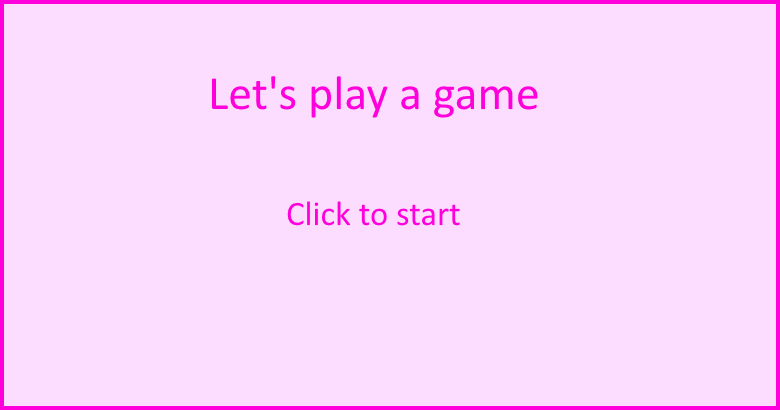
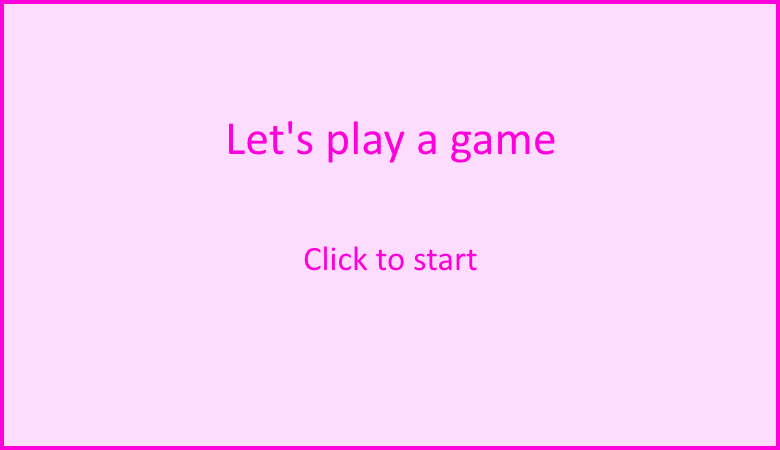
Button that toggles LED on level 1

Changed region(s): [[0.2462, 0.1756, 0.7077, 0.3805], [0.3692, 0.4976, 0.6154, 0.6146]]

diff --git a/script.js b/script.js
@@ -22,10 +22,22 @@ var levels = [{}, {}];
 levels[0].field = [
     ['6-', 'E-', 'E-', 'E-', 'E-', 'C-'],
     ['7-', 'F-', 'F-', 'F-', 'F-', 'D-'],
-    ['7-', 'F-', 'FA', 'F-', 'F-', 'D-'],
+    ['7-', 'F-', 'FA', 'FB', 'F-', 'D-'],
     ['7-', 'F-', 'F-', 'F-', 'F-', 'D-'],
     ['7-', 'F-', 'F-', 'F-', 'F-', 'D-'],
     ['3-', 'B-', 'B-', 'B-', 'B-', '9-']];
+levels[0].items = [[], [], [], [], [], []];
+levels[0].items[2][3] = {
+        key: 'buttons',
+        index: '0'
+    };
+levels[0].leds = [{on: false}];
+levels[0].buttons = [{
+        controlls: {
+            key: 'leds',
+            index: 0
+        }
+    }];
 levels[1].field = [
     ['4-', '0-', '6-', 'AD', 'C-', '0-'],
     ['3B', 'AC', 'F-', 'AE', 'F-', 'C-'],
@@ -33,6 +45,7 @@ levels[1].field = [
     ['0-', '0-', '0-', '0-', '0-', '5-'],
     ['0-', '0-', '0-', '0-', '0-', '5-'],
     ['0-', '0-', '0-', '0-', '0-', '1B']];
+levels[1].leds = [{on: false}, {on: false}];
 var currentLevel = -1;
 
 var gameState = 'MENU';
@@ -68,6 +81,21 @@ function drawGameMenu() {
 }
 
 function drawPlayingField() {
+    function drawLEDs(ledCount, context, x, y) {
+        for (var i = 0; i < ledCount; i++) {
+            context.beginPath();
+            context.arc(x - i * 24, y, 10, 2 * Math.PI, false);
+            if (levels[currentLevel].leds[ledCount - 1 - i].on) {
+                context.fillStyle = 'yellow';
+            } else {
+                context.fillStyle = 'white';
+            }
+            context.fill();
+            context.strokeStyle = '#cfcf32';
+            context.stroke();
+        }
+    }
+
     function drawTile(context, tile, x, y) {
         function drawItem(item, x, y) {
             var imgStr = '<img src="' + item + '.png" class="field_item"></img>';
@@ -146,6 +174,10 @@ function drawPlayingField() {
             drawTile(context, tile, tileIndex * 68 + 1, lineIndex * 68 + 1);
         });
     });
+
+    var statusAreaY = levels[currentLevel].field.length * 68 + 10;
+    var statusAreaX = levels[currentLevel].field[0].length * 68;
+    drawLEDs(levels[currentLevel].leds.length, context, statusAreaX - 12, statusAreaY + 12);
 }
 
 function createPlayer(startCoordinates) {
@@ -257,6 +289,8 @@ function update(deltaTime) {
         }
     }
 
+    var tileCoords = robot.currentTileCoords();
+
     switch (robot.currentInstruction) {
         case 'right':
             robot.dx = 1;
@@ -275,7 +309,13 @@ function update(deltaTime) {
             move();
             break;
         case 'pushButton':
-            console.log('Turn LED on');
+            var item = levels[currentLevel].items[tileCoords.y][tileCoords.x];
+            if (item.key === 'buttons') {
+                var button = levels[currentLevel].buttons[item.index];
+                var controlledItem = levels[currentLevel][button.controlls.key][button.controlls.index];
+                controlledItem.on = !controlledItem.on;
+                drawPlayingField();
+            }
             robot.instructionCompleted = true;
             break;
         case 'openChest':
@@ -286,7 +326,6 @@ function update(deltaTime) {
             robot.instructionCompleted = true;
             break;
         case 'openDoor':
-            var tileCoords = robot.currentTileCoords();
             var tile = levels[currentLevel].field[tileCoords.y][tileCoords.x];
 
             if (tile[1] === 'D' && robot.key === 'red') {

diff --git a/index.html b/index.html
@@ -11,8 +11,8 @@
 
 <body>
     <div class="game_area">
-        <canvas class="game_menu" width="780" height="410"></canvas>
-        <canvas class="field" width="410" height="410"></canvas>
+        <canvas class="game_menu" width="780" height="600"></canvas>
+        <canvas class="field" width="410" height="600"></canvas>
         <form>
             <input type="button" value="Run">
             <textarea cols="30" rows="20"></textarea>

diff --git a/style.css b/style.css
@@ -33,7 +33,7 @@ input {
 
 .instructions {
     position: absolute;
-    top: 450px;
+    top: 470px;
 }
 
 .field_item {
